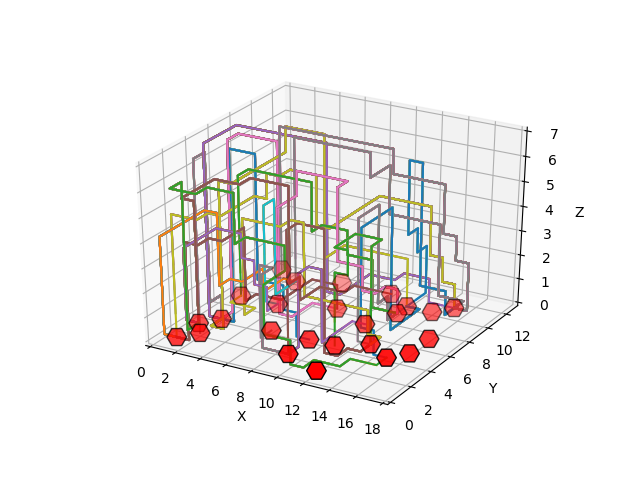
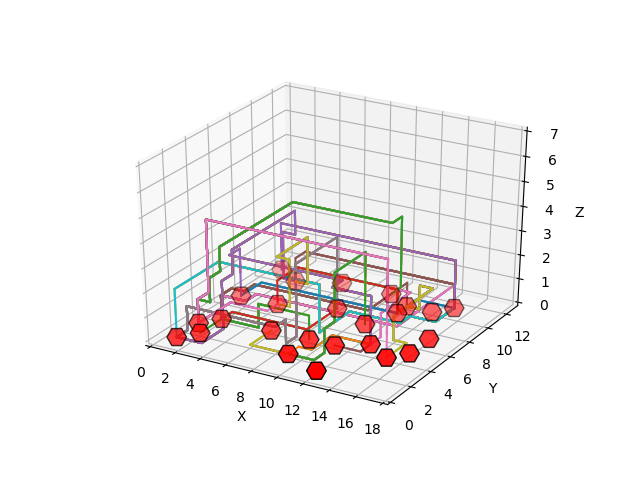
cleaned optimisation xyz_move

Changed region(s): [[0.25, 0.25, 0.75, 0.7812]]

diff --git a/code/algorithms/astar.py b/code/algorithms/astar.py
@@ -4,7 +4,6 @@ from math import sqrt
 from random import shuffle
 
 
-
 def layer_netlist(netlist):
 	""" Equal distribution of wires per layer. """
 
@@ -27,14 +26,6 @@ def layer_netlist(netlist):
 			del netlist[:cables_per_layer]
 	
 	return layer_list
-
-
-def pythagoras(current, end):
-	""" Determine the distance as the bird flies between two coordinates. """
-
-	distance  = sqrt((end[0] - current[0]) ** 2 + (end[1] - current[1]) ** 2 + (end[2] - current[2]) ** 2)
-
-	return distance
 
 
 def manhattan_distance(current, end):
@@ -118,7 +109,6 @@ def astar(gates, grid, start, end, occurance_gate):
 			
 			""" choose which function for the heuristic to use by commenting out the others """
 
-			# h = pythagoras(neighbour, end)
 			# h = manhattan_distance(neighbour, end) 
 			h = distance_to_gate(gates, neighbour, start, end, occurance_gate)
 			# h = loose_cables(current_path[-1], neighbour, end)
@@ -135,7 +125,7 @@ def astar(gates, grid, start, end, occurance_gate):
 			heappush(Q, (f, new_path))
 
 
-def execute_astar(netlist, chip):
+def execute_astar(netlist, chip, loopdieloop=True):
 	""" Execute astar function for all nets. """
 
 	grid = chip.grid
@@ -147,13 +137,16 @@ def execute_astar(netlist, chip):
 	for gate in gates:
 		occurance_gate[gate] = 0
 
-	# does user want loose_layering
-	layering_input = input("Do you want equal distribution of wires over the layers? (y/n)\n").lower()
-	if layering_input == 'y' or layering_input == 'yes':
-		loose_layering = True
+	if loopdieloop:
+		# does user want loose_layering
+		layering_input = input("Do you want equal distribution of wires over the layers? (y/n)\n").lower()
+		if layering_input == 'y' or layering_input == 'yes':
+			loose_layering = True
+		else:
+			loose_layering = False
 	else:
-		loose_layering = False
-			
+		loose_layering = False		
+	
 	# loose_layering forces the wires through a predetermined layer
 	if loose_layering == True:
 		netlist = layer_netlist(netlist)
@@ -202,11 +195,11 @@ def execute_astar(netlist, chip):
 					print(path)
 
 	else:
+		""" turn this off when running xyz_move! """
 		# determine how many wires should sprout from each gate
-		# turn this off when running xyz_move!
-		for net in netlist:
-			occurance_gate[net[0]] += 1
-			occurance_gate[net[1]] += 1
+		# for net in netlist:
+		# 	occurance_gate[net[0]] += 1
+		# 	occurance_gate[net[1]] += 1
 		
 		# run astar for each net
 		for net in netlist:

diff --git a/code/classes/wiring.py b/code/classes/wiring.py
@@ -9,10 +9,9 @@ Uses an algorithm to generate an output file with the solution for wiring.
 """
 
 import csv
-
 from code.algorithms.xyz_move import xyz_wire
 from code.algorithms.astar import execute_astar
-from code.algorithms.hillclimb import *
+
 
 class Wiring():
 	""" This class outputs wires to connect gates as listed in netlist. """
@@ -22,13 +21,8 @@ class Wiring():
 		self.netlist = netlist
 		
 		algorithm = self.choose_alg(alg_req)
-		
-		if alg_req == 'xyz_move':
-			self.wire, self.unsolved = algorithm(self.netlist, self.chip)
-			self.stuck, self.stuck_wires = find_point_stuck(self.wire, self.unsolved)
-			self.new_wires = change_wires(self.stuck, self.stuck_wires, self.chip, self.wire)
-		else:
-			self.wire = algorithm(self.netlist, self.chip)
+
+		self.wire = algorithm(self.netlist, self.chip)
 
 		self.output(self.wire)
 

diff --git a/code/algorithms/xyz_astar.py b/code/algorithms/xyz_astar.py
@@ -1,4 +1,3 @@
-from code.algorithms.xyz_move import xyz_wire
 from code.algorithms.astar import execute_astar
 import random
 
@@ -29,7 +28,7 @@ def find_point_stuck(output_dict, unsolved_wire):
 
 	return stuck_point, stuck_wires
 
-def change_wires(stuck_points, stuck_wires, chip, output_dict, loose_layering):
+def change_wires(stuck_points, stuck_wires, chip, output_dict):
 	""" Lays the remaining points of the wires that got stuck with the use of A*. """
 
 	new_output_dict = {}
@@ -39,7 +38,7 @@ def change_wires(stuck_points, stuck_wires, chip, output_dict, loose_layering):
 		new_netlist = [(point, net[1])]
 
 		# execute astar
-		new_wires = execute_astar(new_netlist, chip, loose_layering)
+		new_wires = execute_astar(new_netlist, chip, False)
 
 		# merge wires if new found
 		if len(next(iter(new_wires.values()))) > 1:

diff --git a/code/algorithms/xyz_move.py b/code/algorithms/xyz_move.py
@@ -1,4 +1,6 @@
 
+from code.algorithms.xyz_astar import *
+
 def xyz_wire(netlist, chip):
 	""" Determine wire needed to connect the nets. """
 
@@ -62,6 +64,12 @@ def xyz_wire(netlist, chip):
 					current[2] += 1
 					chip.grid[current[0]][current[1]][current[2]] = True
 					wire.append(tuple(current))
-	print("unsolved: ", unsolved_count)
 
-	return output_dict, unsolved_wire
+	optimisation_input = input("Do you want to optimise the xyz_move result with A*? (y/n) \n").lower()
+
+	if optimisation_input == 'y' or optimisation_input == 'yes':
+		stuck, stuck_wires = find_point_stuck(output_dict, unsolved_wire)
+		new_wires = change_wires(stuck, stuck_wires, chip, output_dict)
+		return new_wires
+
+	return output_dict
